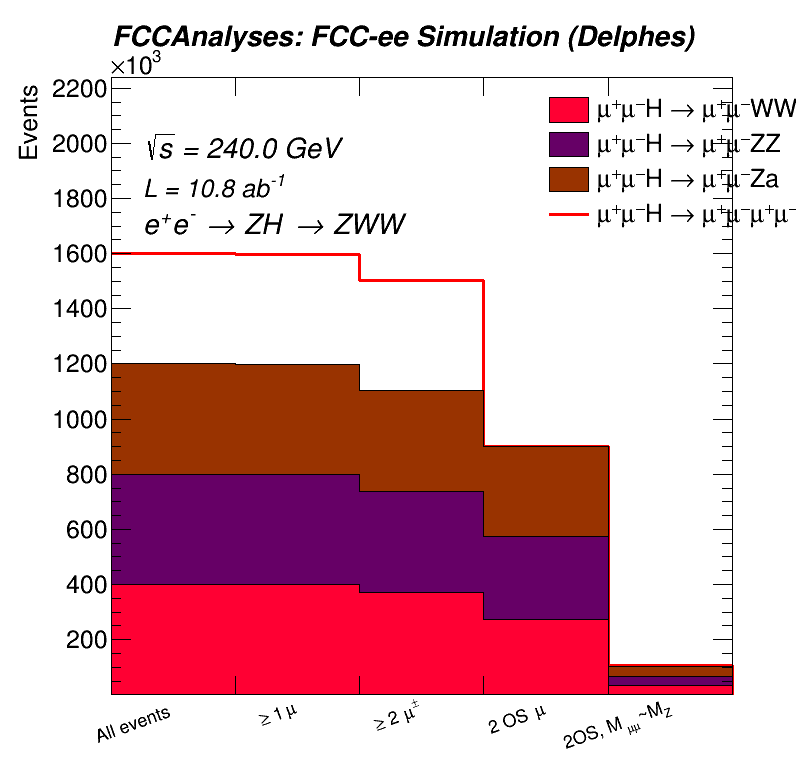
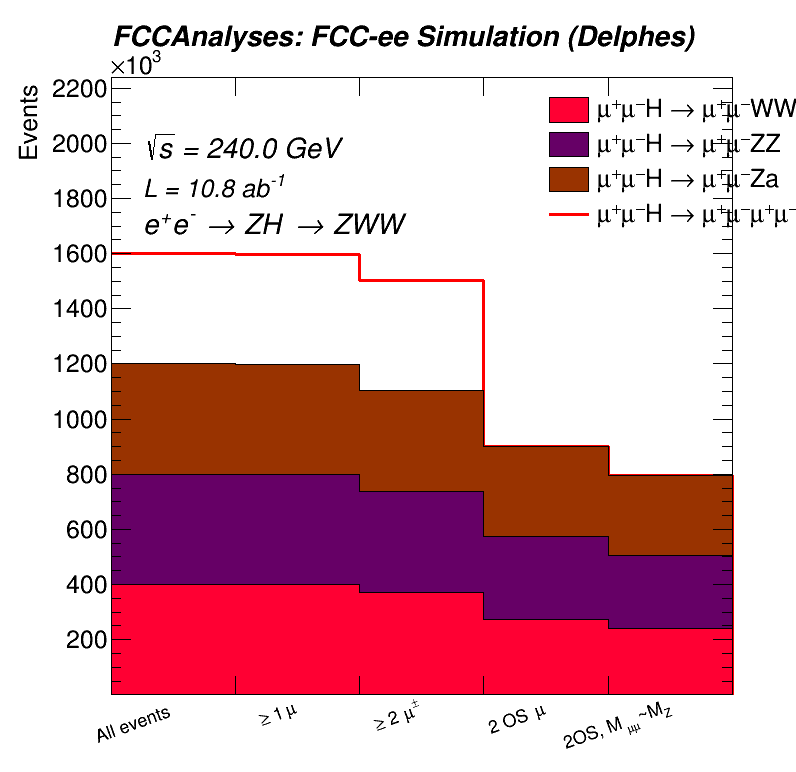
Isolated Z peak

Changed region(s): [[0.7538, 0.5907, 0.9347, 0.9016]]

diff --git a/h_ww/H_ww_ee.py b/h_ww/H_ww_ee.py
@@ -254,7 +254,7 @@ def build_graph(df, dataset):
     #########
     df = df.Define("leps_tlv", "FCCAnalyses::makeLorentzVectors(muons)")
     df = df.Define("invariant_mass", "(leps_tlv[0] + leps_tlv[1]).M()") 
-    df = df.Filter("abs(invariant_mass - 91.2) > 10")
+    df = df.Filter("abs(invariant_mass - 91.2) < 10")
     df = df.Define("cut4", "4")
     hists.append(df.Histo1D(("cutFlow", "", *bins_count), "cut4"))
 

diff --git a/h_ww/plots_root.py b/h_ww/plots_root.py
@@ -182,8 +182,8 @@ hists["invariant_mass"] = {
     "logy":     True,
     "stack":    True,
     "rebin":    1,
-    "xmin":     0,
-    "xmax":     150,
+    "xmin":     80,
+    "xmax":     100,
     "ymin":     1e-3,
     #"ymax":     1e6,
     "xtitle":   "Invariant mass (GeV)",
